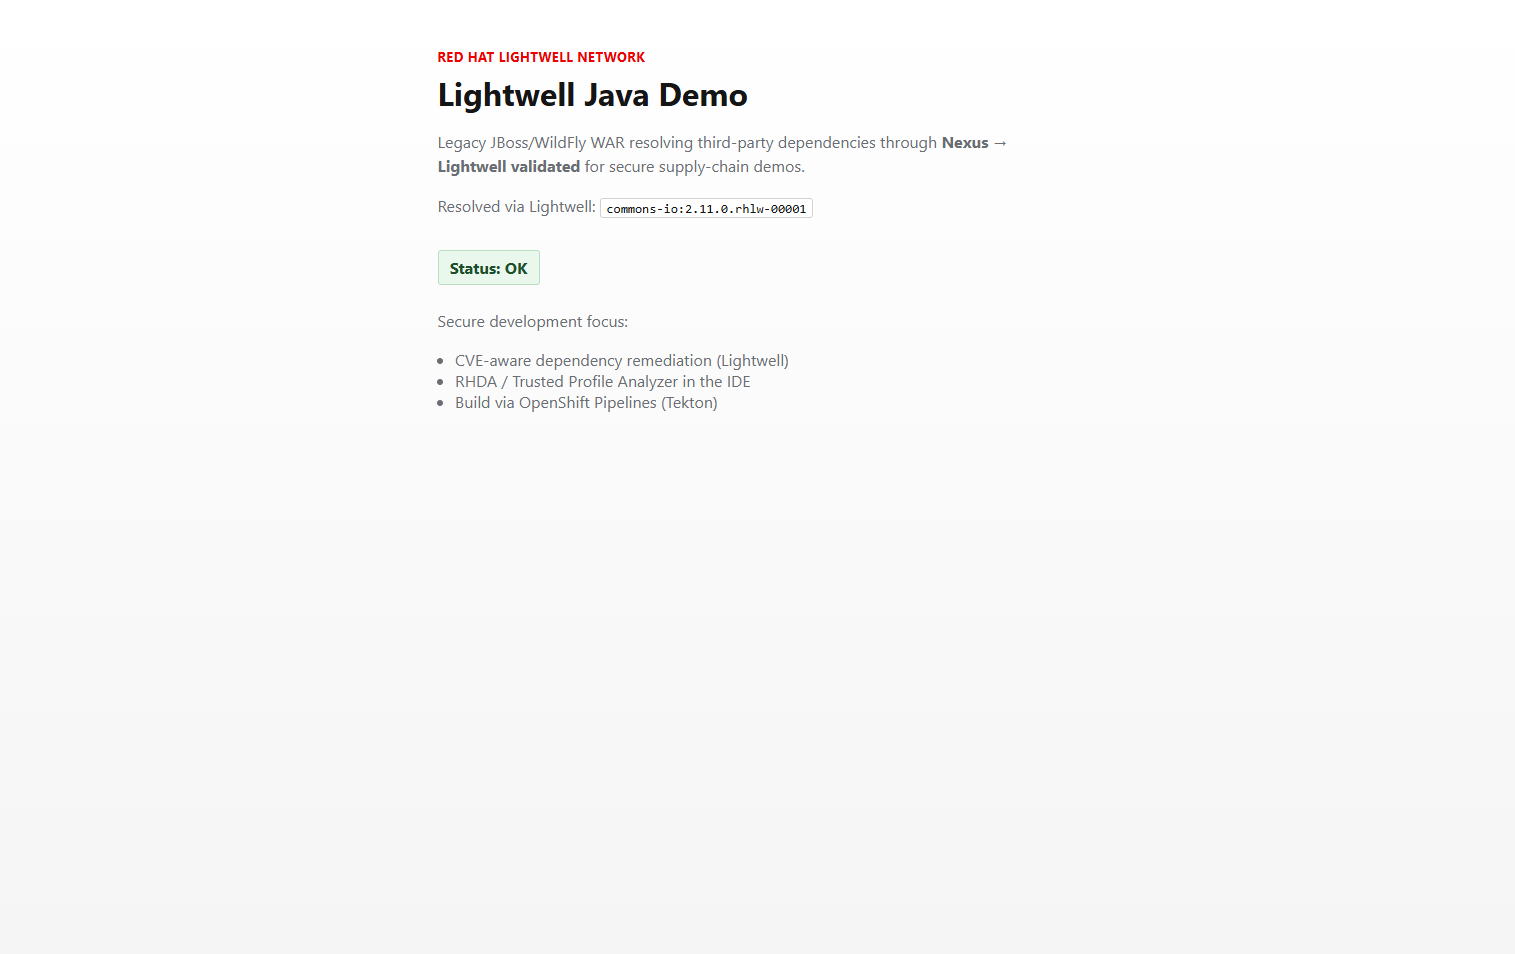
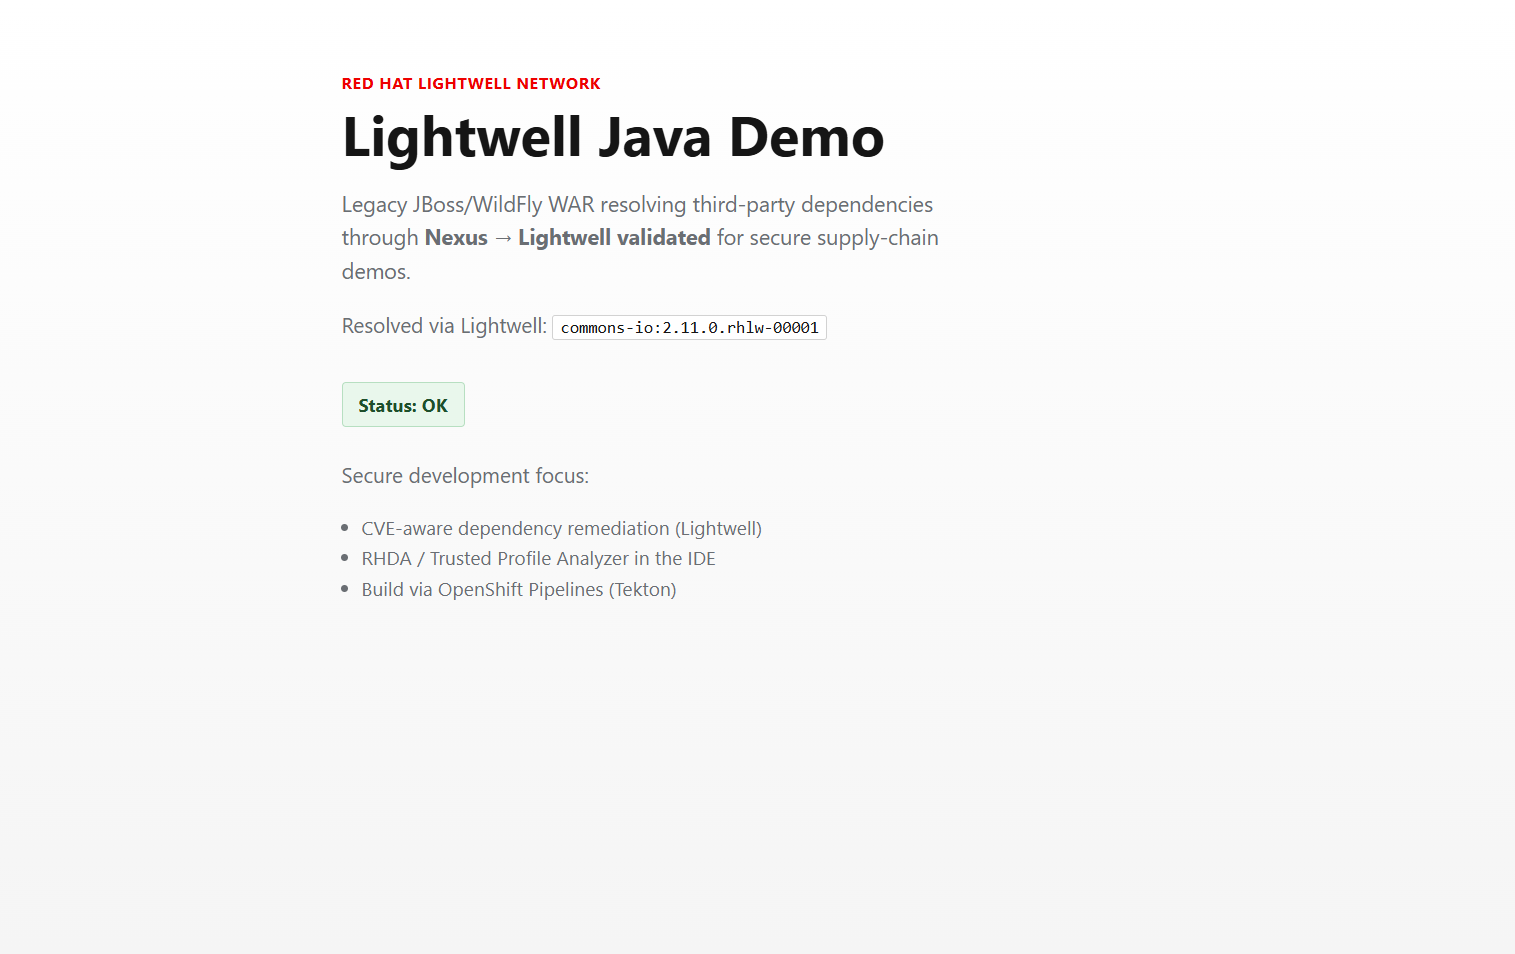
docs: wire carousel fullscreen and refresh app home shots

diff --git a/docs/index.html b/docs/index.html
@@ -1316,10 +1316,29 @@ Contrast — GitHub Actions contingency path (no Nexus):
       var statusEl = document.getElementById("journey-status");
       var prevBtn = document.getElementById("journey-prev");
       var nextBtn = document.getElementById("journey-next");
+      var fsBtn = document.getElementById("journey-fs");
       var index = 0;
       var timer = null;
       var reduced = window.matchMedia("(prefers-reduced-motion: reduce)").matches;
       var touchX = null;
+      var fsOpen = false;
+
+      function setFullscreen(on) {
+        fsOpen = !!on;
+        root.classList.toggle("is-fullscreen", fsOpen);
+        document.body.classList.toggle("journey-fs-open", fsOpen);
+        if (fsBtn) {
+          fsBtn.setAttribute("aria-pressed", fsOpen ? "true" : "false");
+          fsBtn.textContent = fsOpen ? "Exit fullscreen" : "Fullscreen";
+          fsBtn.setAttribute("aria-label", fsOpen ? "Exit fullscreen" : "Toggle fullscreen");
+        }
+        if (fsOpen) {
+          stop();
+          try { root.focus({ preventScroll: true }); } catch (_) { root.focus(); }
+        } else {
+          restart();
+        }
+      }
 
       var quayImg = document.getElementById("journey-quay-img");
       if (quayImg && quayImg.dataset.fallback) {
@@ -1355,7 +1374,7 @@ Contrast — GitHub Actions contingency path (no Nexus):
           else dot.removeAttribute("aria-current");
         });
         statusEl.textContent = (index + 1) + " / " + slides.length;
-        if (user) restart();
+        if (user && !fsOpen) restart();
       }
 
       function next() { go(index + 1, false); }
@@ -1372,15 +1391,28 @@ Contrast — GitHub Actions contingency path (no Nexus):
 
       prevBtn.addEventListener("click", function () { go(index - 1, true); });
       nextBtn.addEventListener("click", function () { go(index + 1, true); });
+      if (fsBtn) {
+        fsBtn.addEventListener("click", function () { setFullscreen(!fsOpen); });
+      }
       root.addEventListener("keydown", function (e) {
+        if (e.key === "Escape" && fsOpen) { e.preventDefault(); setFullscreen(false); return; }
         if (e.key === "ArrowRight") { e.preventDefault(); go(index + 1, true); }
         if (e.key === "ArrowLeft") { e.preventDefault(); go(index - 1, true); }
+        if ((e.key === "f" || e.key === "F") && !e.ctrlKey && !e.metaKey && !e.altKey) {
+          e.preventDefault();
+          setFullscreen(!fsOpen);
+        }
+      });
+      document.addEventListener("keydown", function (e) {
+        if (e.key === "Escape" && fsOpen) setFullscreen(false);
       });
       root.addEventListener("mouseenter", stop);
-      root.addEventListener("mouseleave", restart);
+      root.addEventListener("mouseleave", function () {
+        if (!fsOpen) restart();
+      });
       root.addEventListener("focusin", stop);
       root.addEventListener("focusout", function (e) {
-        if (!root.contains(e.relatedTarget)) restart();
+        if (!fsOpen && !root.contains(e.relatedTarget)) restart();
       });
       root.addEventListener("touchstart", function (e) {
         touchX = e.changedTouches[0].clientX;
